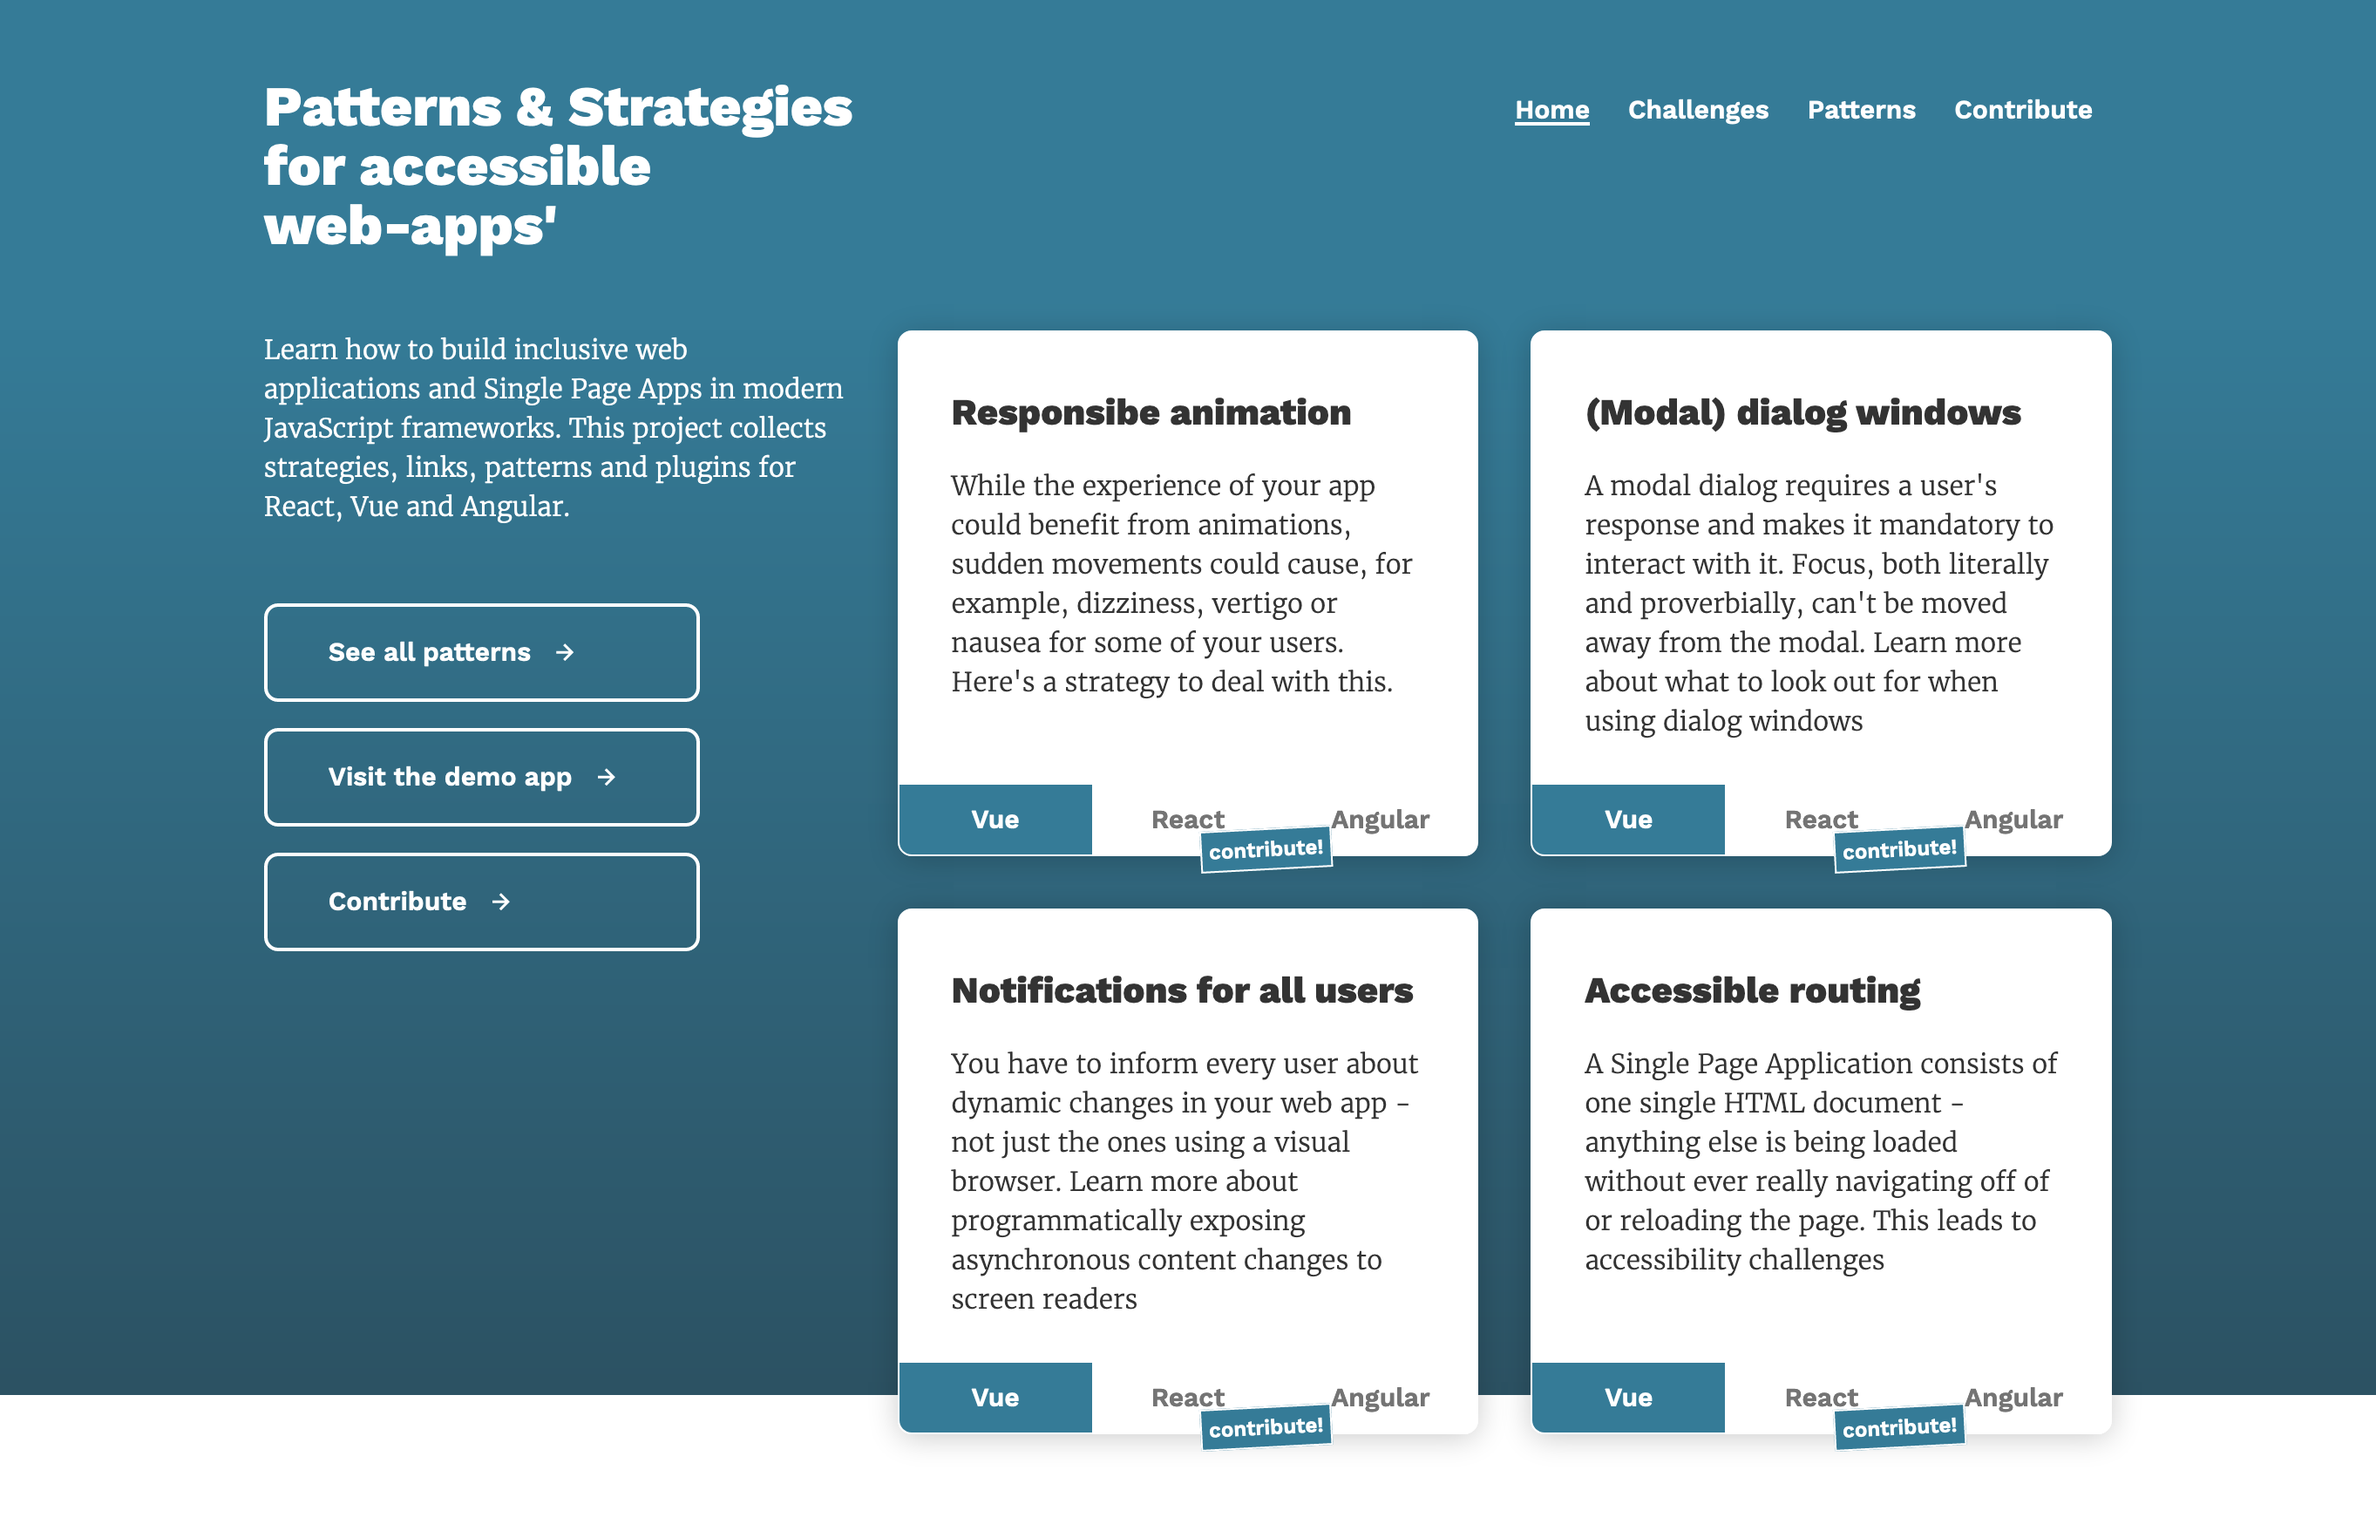
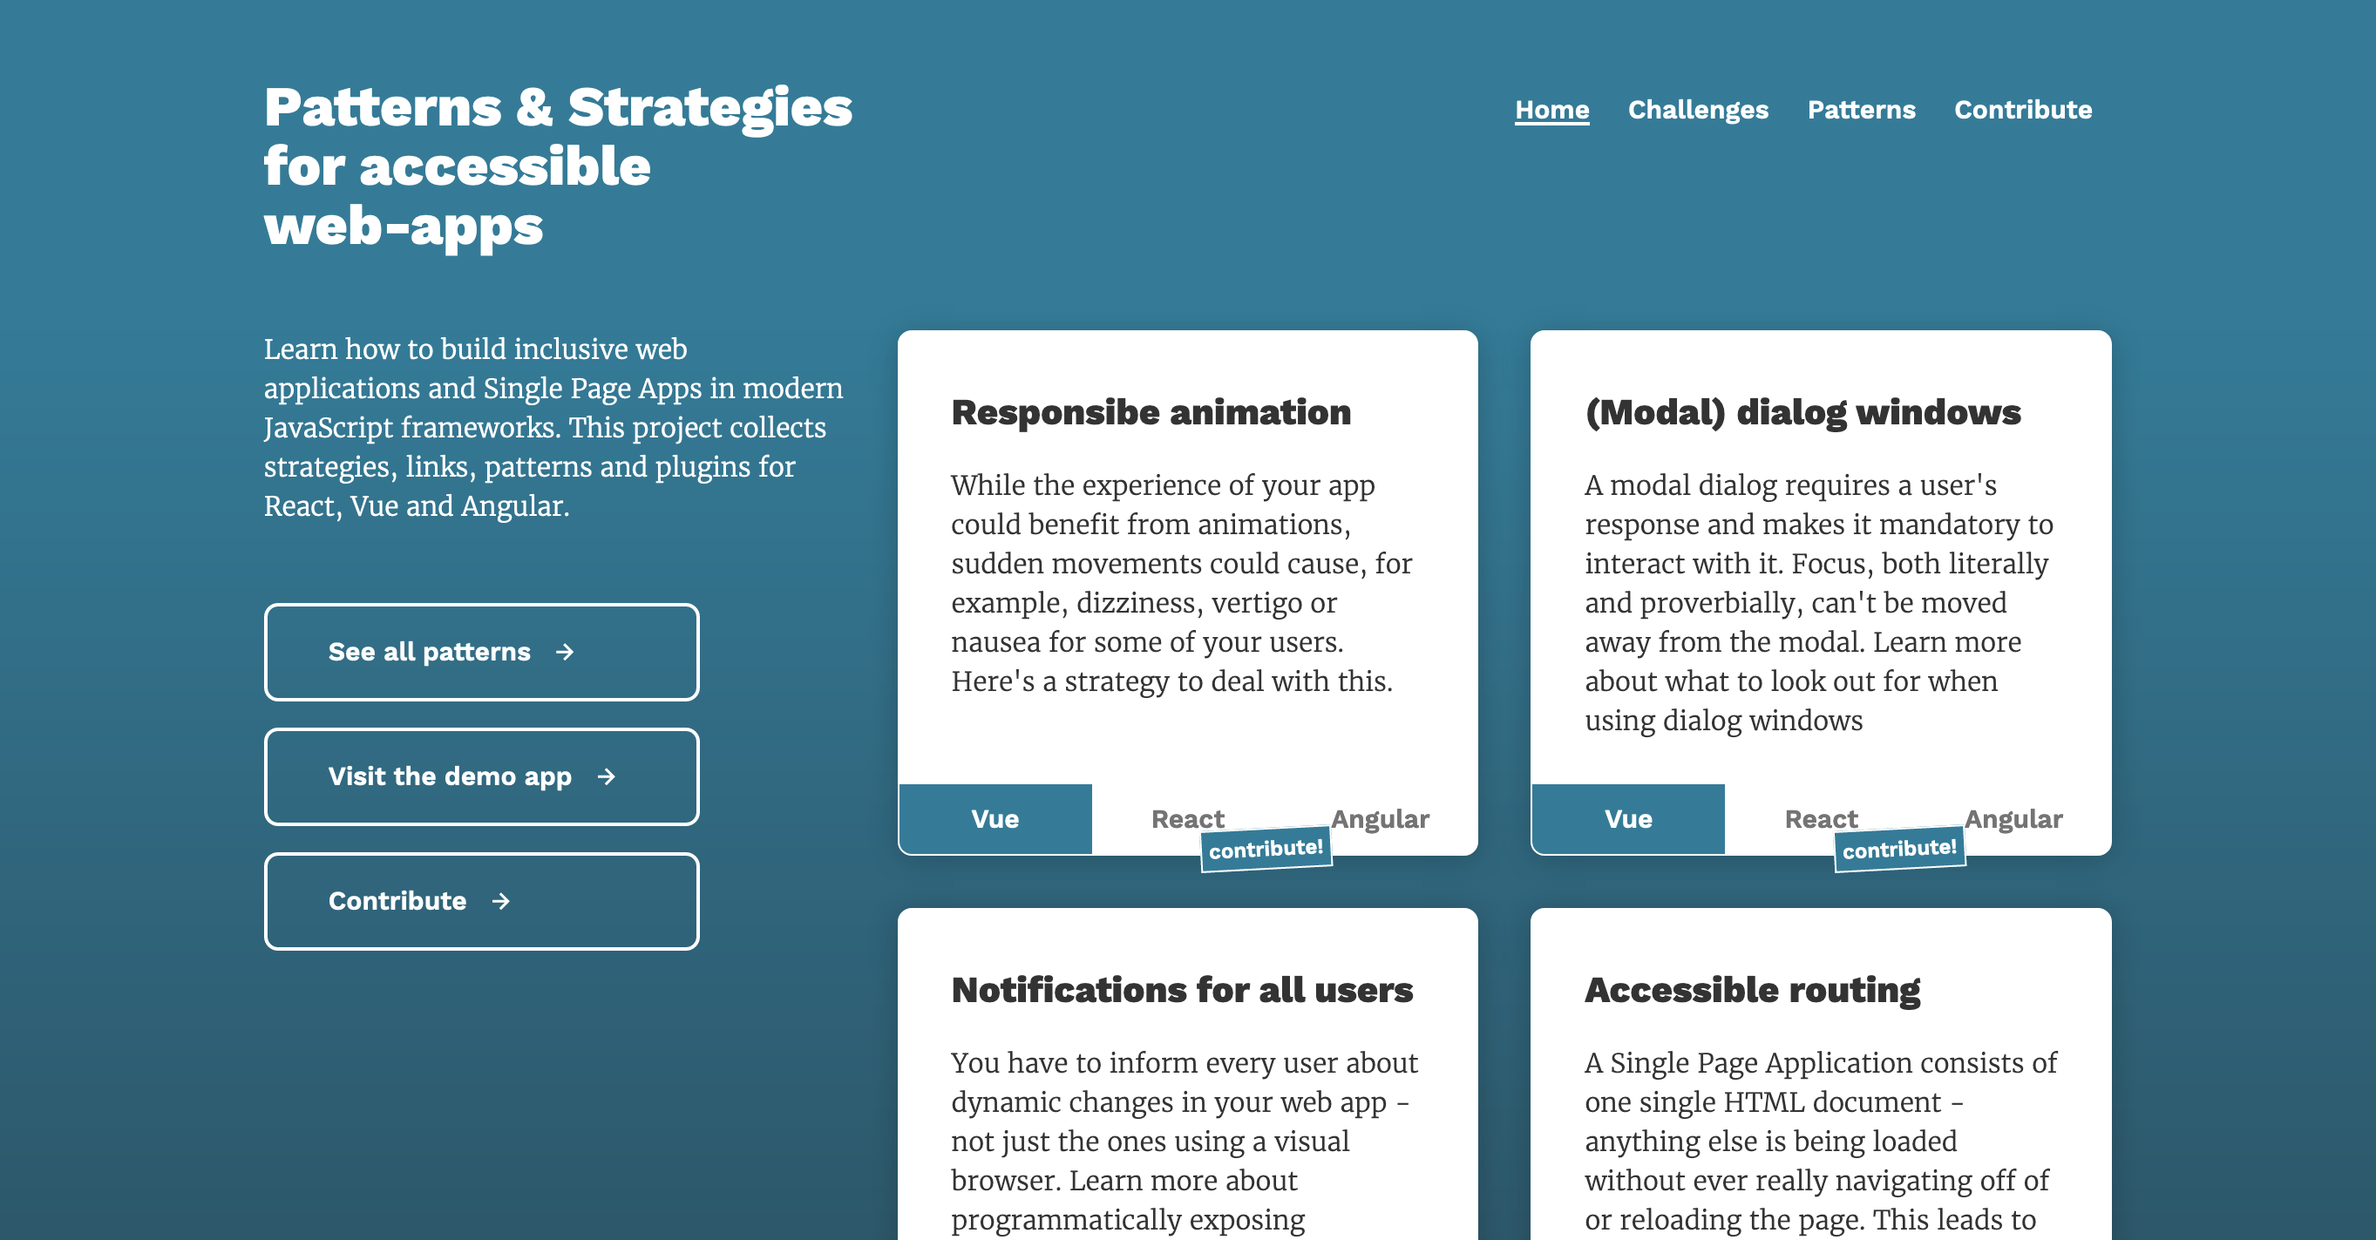
Hotfixes

diff --git a/content/intro.md b/content/intro.md
@@ -1,5 +1,5 @@
 ---
-title: Patterns & Strategies for accessible <span class="u-nowrap">web-apps</span>'
+title: Patterns & Strategies for accessible <span class="u-nowrap">web-apps</span>
 intro: Learn how to build inclusive web applications and Single Page Apps in modern JavaScript frameworks. This project collects strategies, links, patterns and plugins for React, Vue and Angular.
 type: intro
 ---
